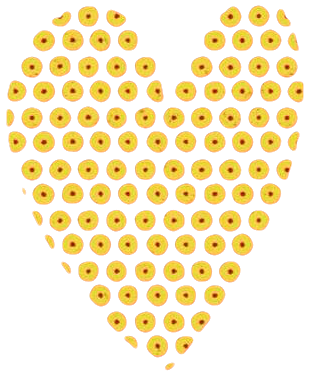
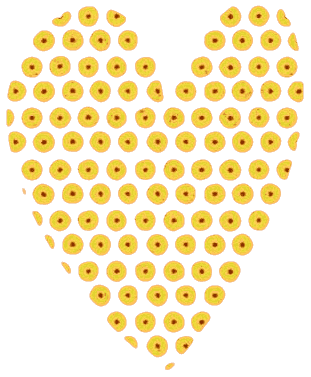
Remove unused localstore library; optimize splash heart image

Changed region(s): [[0.3762, 0.0292, 0.4051, 0.0584]]

diff --git a/src/js/index.js b/src/js/index.js
@@ -1,7 +1,6 @@
 import React from 'react';
 import ReactDOM from 'react-dom';
 import { Router, Route, IndexRoute, browserHistory, Redirect } from 'react-router';
-import localStore from 'store';
 
 // Has to be at the top to initialize firebase configuration
 import './initialize-firebase.js';
@@ -14,15 +13,6 @@ import HomePage from './home-page.js';
 import Application from './application.js';
 
 import '../scss/styles.scss';
-
-if (!localStore.enabled) {
-  // TODO: give a nice in-page dismissable alert in a standalone component instead
-  alert('You may be using an unsupported browser or be in a private ' +
-    'browsing session, so we will not be able to keep you logged in and ' +
-    'save your progress reliably. Please switch browser or into a regular ' +
-    'window if you can, and also do not hesitate to let us know about this. ' +
-  'Thank you for your understanding.');
-}
 
 ReactDOM.render((
   <Router history={browserHistory} onUpdate={() => window.scrollTo(0, 0)}>

diff --git a/src/js/application.js b/src/js/application.js
@@ -1,7 +1,6 @@
 import React from 'react';
 import * as auth from './auth.js';
 import * as data from './data.js';
-import localStore from 'store';
 
 import Header from './header.js';
 import Footer from './footer.js';

diff --git a/src/js/header.js b/src/js/header.js
@@ -1,6 +1,5 @@
 import React from 'react';
 import { Link } from 'react-router';
-import localStore from 'store';
 
 import * as auth from './auth.js';
 

diff --git a/src/js/initialize-firebase.js b/src/js/initialize-firebase.js
@@ -1,6 +1,3 @@
-console.log('deploy target', __DEPLOY_TARGET__);
-
-
 let config;
 
 // Initialize Firebase with the appropriate database

diff --git a/src/js/auth.js b/src/js/auth.js
@@ -1,4 +1,3 @@
-import localStore from 'store';
 import decodeJwt from 'jwt-decode';
 import { browserHistory } from 'react-router';
 
